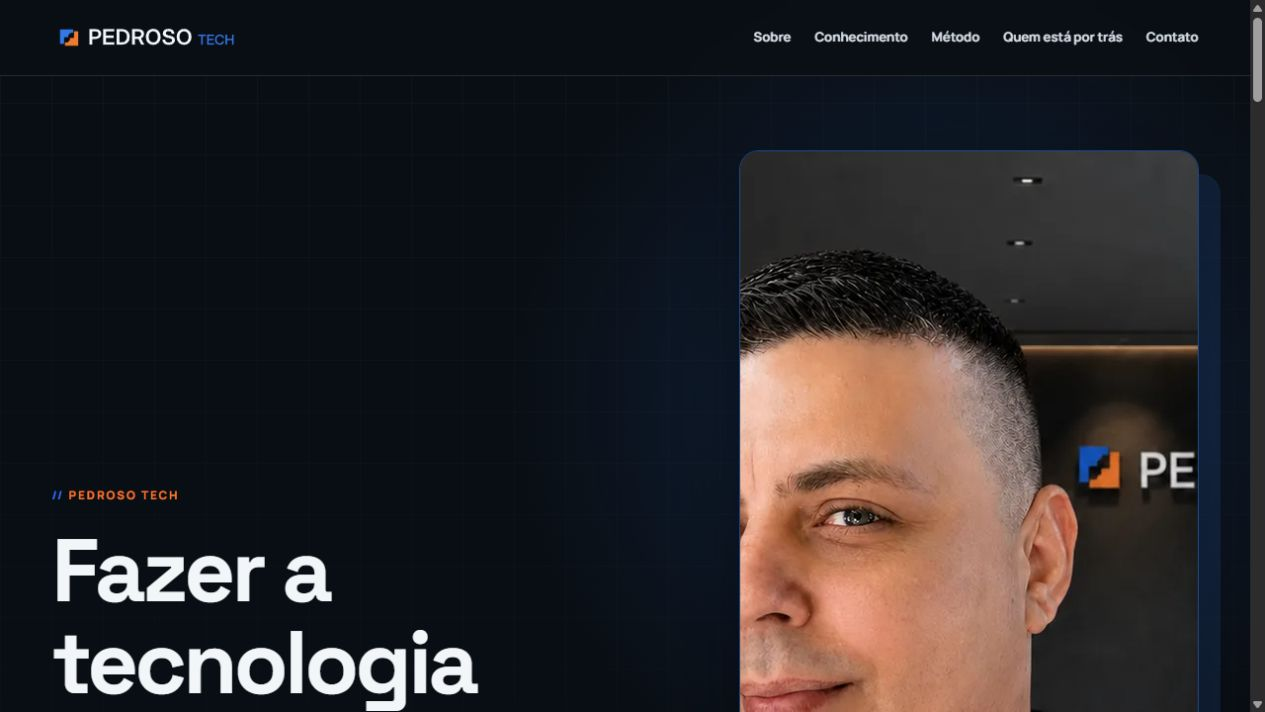
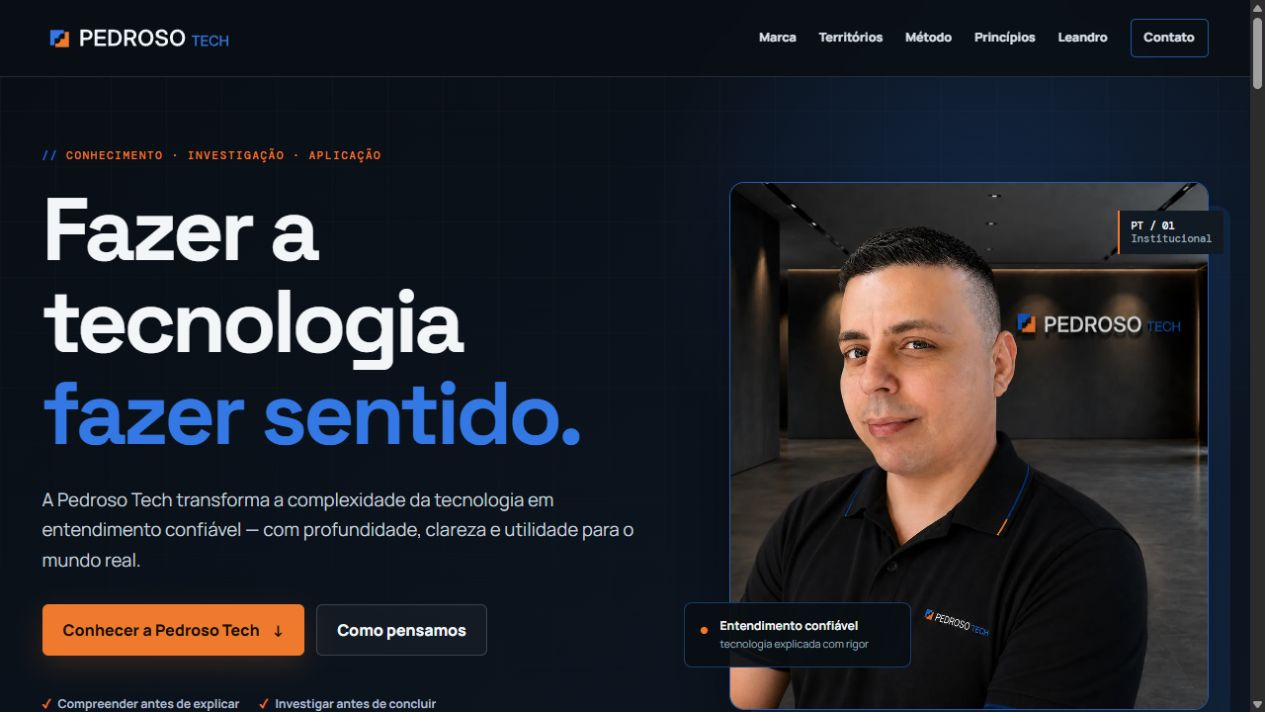
Enrich Pedroso Tech institutional experience

diff --git a/index.html b/index.html
@@ -1,19 +1,21 @@
 <!doctype html>
 <html lang="pt-BR"><head>
-  <meta charset="utf-8"><meta name="viewport" content="width=device-width, initial-scale=1">
-  <title>Pedroso Tech | Tecnologia que faz sentido</title>
-  <meta name="description" content="Pedroso Tech transforma a complexidade da tecnologia em entendimento confiável, com investigação, conhecimento aplicado e recursos úteis."><meta name="author" content="Pedroso Tech"><meta name="theme-color" content="#090E14"><meta name="color-scheme" content="dark"><link rel="canonical" href="https://pedrosotech.com.br/">
-  <meta property="og:type" content="website"><meta property="og:locale" content="pt_BR"><meta property="og:site_name" content="Pedroso Tech"><meta property="og:title" content="Pedroso Tech | Tecnologia que faz sentido"><meta property="og:description" content="Entendimento tecnológico confiável, claro e útil."><meta property="og:url" content="https://pedrosotech.com.br/"><meta property="og:image" content="https://pedrosotech.com.br/assets/leandro-pedroso-lobby.jpg"><meta name="twitter:card" content="summary_large_image"><meta name="twitter:title" content="Pedroso Tech | Tecnologia que faz sentido"><meta name="twitter:description" content="Entendimento tecnológico confiável, claro e útil."><meta name="twitter:image" content="https://pedrosotech.com.br/assets/leandro-pedroso-lobby.jpg">
-  <link rel="icon" href="assets/pedroso-tech-signature.svg" type="image/svg+xml"><link rel="manifest" href="site.webmanifest"><link rel="stylesheet" href="styles.css"><link rel="stylesheet" href="responsive-fixes.css">
-  <script type="application/ld+json">{"@context":"https://schema.org","@type":"Organization","name":"Pedroso Tech","url":"https://pedrosotech.com.br/","description":"Marca independente de tecnologia dedicada a transformar assuntos complexos em entendimento confiável.","sameAs":["https://github.com/leopedroso84","https://instagram.com/leopedrosotech","https://facebook.com/profile.php?id=61593232645749"]}</script>
+<meta charset="utf-8"><meta name="viewport" content="width=device-width, initial-scale=1">
+<title>Pedroso Tech | Tecnologia que faz sentido</title>
+<meta name="description" content="A Pedroso Tech transforma a complexidade da tecnologia em entendimento confiável, com investigação, conhecimento aplicado e recursos úteis."><meta name="author" content="Pedroso Tech"><meta name="theme-color" content="#090E14"><meta name="color-scheme" content="dark"><link rel="canonical" href="https://pedrosotech.com.br/">
+<meta property="og:type" content="website"><meta property="og:locale" content="pt_BR"><meta property="og:site_name" content="Pedroso Tech"><meta property="og:title" content="Pedroso Tech | Tecnologia que faz sentido"><meta property="og:description" content="Entendimento tecnológico confiável, claro e útil."><meta property="og:url" content="https://pedrosotech.com.br/"><meta property="og:image" content="https://pedrosotech.com.br/assets/leandro-pedroso-lobby.jpg"><meta name="twitter:card" content="summary_large_image"><meta name="twitter:title" content="Pedroso Tech | Tecnologia que faz sentido"><meta name="twitter:description" content="Entendimento tecnológico confiável, claro e útil."><meta name="twitter:image" content="https://pedrosotech.com.br/assets/leandro-pedroso-lobby.jpg">
+<link rel="icon" href="assets/pedroso-tech-signature.svg" type="image/svg+xml"><link rel="manifest" href="site.webmanifest"><link rel="stylesheet" href="styles.css?v=20260817c"><link rel="stylesheet" href="fixes.css?v=20260817c">
+<script type="application/ld+json">{"@context":"https://schema.org","@type":"Organization","name":"Pedroso Tech","url":"https://pedrosotech.com.br/","description":"Marca independente de tecnologia dedicada a transformar assuntos complexos em entendimento confiável.","sameAs":["https://github.com/leopedroso84","https://instagram.com/leopedrosotech","https://facebook.com/profile.php?id=61593232645749"]}</script>
 </head><body>
-  <a class="skip-link" href="#conteudo">Pular para o conteúdo</a><header class="header" id="topo"><div class="container header-inner"><a class="brand" href="#inicio" aria-label="Pedroso Tech, página inicial"><img src="assets/pedroso-tech-signature.svg" width="260" height="48" alt="Pedroso Tech"></a><button class="menu-toggle" type="button" aria-expanded="false" aria-controls="menu"><span></span><span></span><span></span><span class="sr-only">Abrir menu</span></button><nav class="nav" id="menu" aria-label="Navegação principal"><a href="#sobre">Sobre</a><a href="#conhecimento">Conhecimento</a><a href="#metodo">Método</a><a href="#leandro">Quem está por trás</a><a href="#contato">Contato</a></nav></div></header>
-  <main id="conteudo"><section class="hero" id="inicio"><div class="grid-glow" aria-hidden="true"></div><div class="container hero-grid"><div class="hero-copy reveal"><p class="eyebrow">PEDROSO TECH</p><h1>Fazer a tecnologia <em>fazer sentido.</em></h1><p class="lead">Transformamos a complexidade da tecnologia em entendimento confiável — com investigação, conhecimento aplicado e recursos úteis.</p><div class="hero-actions"><a class="button button-primary" href="#conhecimento">Conhecer a Pedroso Tech</a><a class="button button-secondary" href="#contato">Entrar em contato</a></div></div><figure class="hero-photo reveal"><picture><source srcset="assets/leandro-pedroso-lobby.webp" type="image/webp"><img src="assets/leandro-pedroso-lobby.jpg" width="1200" height="1200" alt="Leandro Pedroso no lobby institucional da Pedroso Tech" fetchpriority="high"></picture><figcaption>Por Leandro Pedroso</figcaption></figure></div></section>
-    <section class="section" id="sobre"><div class="container split"><div><p class="eyebrow">SOBRE A MARCA</p><h2>Clareza sem perder a precisão.</h2></div><div class="body-copy"><p>A Pedroso Tech é uma marca independente de tecnologia dedicada a ajudar pessoas e organizações a compreender, avaliar e utilizar melhor a tecnologia.</p><p>Conhecimento, investigação e aplicação prática caminham juntos para tornar decisões mais conscientes e experiências mais úteis.</p></div></div></section>
-    <section class="section section-surface" id="conhecimento"><div class="container"><p class="eyebrow">TERRITÓRIOS DE ATUAÇÃO</p><h2>Conhecimento aplicado ao mundo real.</h2><div class="cards"><article><b>01</b><h3>Tecnologia aplicada</h3><p>Funcionamento, relações, impactos e aplicações da tecnologia.</p></article><article><b>02</b><h3>Redes e conectividade</h3><p>Infraestrutura, comunicação, internet e telecomunicações.</p></article><article><b>03</b><h3>Sistemas e automação</h3><p>Software, integrações, processos digitais e soluções automatizadas.</p></article><article><b>04</b><h3>IA aplicada</h3><p>Uso, funcionamento, limitações e experimentação responsável.</p></article><article><b>05</b><h3>Diagnóstico técnico</h3><p>Investigação de causas, boas práticas e resolução de problemas.</p></article><article><b>06</b><h3>Projetos e documentação</h3><p>Recursos próprios que materializam conhecimento com utilidade.</p></article></div></div></section>
-    <section class="section method" id="metodo"><div class="container"><p class="eyebrow">MÉTODO PEDROSO TECH</p><h2>Entender antes de decidir.</h2><p class="method-intro">Um processo para transformar curiosidade em entendimento confiável.</p><ol><li>Compreender</li><li>Investigar</li><li>Conectar</li><li>Experimentar</li><li>Validar</li><li>Transformar</li></ol></div></section>
-    <section class="section" id="leandro"><div class="container person"><div class="person-image"><picture><source srcset="assets/leandro-pedroso-lobby.webp" type="image/webp"><img src="assets/leandro-pedroso-lobby.jpg" width="1200" height="1200" alt="Retrato institucional de Leandro Pedroso"></picture></div><div><p class="eyebrow">QUEM ESTÁ POR TRÁS</p><h2>Leandro Pedroso</h2><p class="body-copy">Leandro é a pessoa por trás da Pedroso Tech. Sua atuação conecta tecnologia, investigação e comunicação clara para transformar desafios reais em entendimento útil.</p><a class="text-link" href="https://github.com/leopedroso84" target="_blank" rel="noopener noreferrer">Conheça os projetos no GitHub <span aria-hidden="true">↗</span></a></div></div></section>
-    <section class="section section-surface presence"><div class="container"><p class="eyebrow">PRESENÇA DIGITAL</p><h2>Continue acompanhando.</h2><div class="channels"><a href="https://github.com/leopedroso84" target="_blank" rel="noopener noreferrer"><span>GitHub</span><strong>Projetos e recursos técnicos</strong></a><a href="https://instagram.com/leopedrosotech" target="_blank" rel="noopener noreferrer"><span>Instagram</span><strong>@leopedrosotech</strong></a><a href="https://facebook.com/profile.php?id=61593232645749" target="_blank" rel="noopener noreferrer"><span>Facebook</span><strong>Pedroso Tech</strong></a></div></div></section>
-    <section class="section contact" id="contato"><div class="container"><p class="eyebrow">CONTATO</p><h2>Uma conversa pode começar por aqui.</h2><p>Para assuntos institucionais, projetos e parcerias, escolha um dos canais oficiais.</p><div class="contact-actions"><a class="button button-primary contact-button" href="mailto:contato@pedrosotech.com.br" aria-label="Enviar e-mail para a Pedroso Tech"><svg viewBox="0 0 24 24" aria-hidden="true" focusable="false"><path d="M3.75 5.75h16.5v12.5H3.75z"></path><path d="m4.5 7 7.5 6 7.5-6"></path></svg><span class="contact-label">E-mail</span></a><a class="button button-secondary contact-button" href="https://wa.me/551736349105" target="_blank" rel="noopener noreferrer" aria-label="Falar com a Pedroso Tech pelo WhatsApp"><svg viewBox="0 0 24 24" aria-hidden="true" focusable="false"><path d="M20 11.5a8 8 0 0 1-11.8 7L4 19.5l1.1-4A8 8 0 1 1 20 11.5Z"></path><path d="M9.2 8.3c.2-.4.4-.4.7-.4h.5c.2 0 .4.1.5.4l.8 1.8c.1.3.1.5-.1.7l-.6.7c-.2.2-.2.4-.1.6.6 1.2 1.6 2.1 2.8 2.7.2.1.4.1.6-.1l.8-1c.2-.2.4-.3.7-.2l1.8.8c.3.1.4.3.4.5 0 .5-.2 1.4-.8 1.9-.6.5-1.4.8-2.3.6-1.3-.3-2.7-.8-4.3-2.2-1.4-1.2-2.4-2.8-2.8-4-.4-1.1-.1-2 .4-2.8Z"></path></svg><span class="contact-label">WhatsApp</span></a></div></div></section></main>
-  <footer class="footer"><div class="container footer-inner"><img src="assets/pedroso-tech-signature.svg" width="208" height="38" alt="Pedroso Tech"><p>Entendimento tecnológico confiável, claro e útil.</p><div><a href="privacidade.html">Política de Privacidade</a><a href="#topo">Voltar ao topo</a></div><small>© <span id="year"></span> Pedroso Tech.</small></div></footer><script src="script.js"></script>
-</body></html>
+<a class="skip-link" href="#conteudo">Pular para o conteúdo</a><header class="header" id="topo"><div class="container header-inner"><a class="brand" href="#inicio" aria-label="Pedroso Tech, página inicial"><img src="assets/pedroso-tech-signature.svg" width="260" height="48" alt="Pedroso Tech"></a><button class="menu-toggle" type="button" aria-expanded="false" aria-controls="menu"><span></span><span></span><span></span><span class="sr-only">Abrir menu</span></button><nav class="nav" id="menu" aria-label="Navegação principal"><a href="#marca">Marca</a><a href="#territorios">Territórios</a><a href="#metodo">Método</a><a href="#principios">Princípios</a><a href="#leandro">Leandro</a><a class="nav-cta" href="#contato">Contato</a></nav></div></header>
+<main id="conteudo">
+<section class="hero" id="inicio"><div class="gridline" aria-hidden="true"></div><div class="container hero-layout"><div class="hero-copy reveal"><p class="eyebrow">CONHECIMENTO · INVESTIGAÇÃO · APLICAÇÃO</p><h1>Fazer a tecnologia <span>fazer sentido.</span></h1><p class="lead">A Pedroso Tech transforma a complexidade da tecnologia em entendimento confiável — com profundidade, clareza e utilidade para o mundo real.</p><div class="actions"><a class="button primary" href="#marca">Conhecer a Pedroso Tech <span>↓</span></a><a class="button ghost" href="#metodo">Como pensamos</a></div><ul class="notes"><li>Compreender antes de explicar</li><li>Investigar antes de concluir</li><li>Validar antes de compartilhar</li></ul></div><div class="hero-visual reveal"><div class="photo-frame"><picture><source srcset="assets/leandro-pedroso-lobby.webp" type="image/webp"><img src="assets/leandro-pedroso-lobby.jpg" width="1200" height="1200" alt="Leandro Pedroso no lobby institucional da Pedroso Tech" fetchpriority="high"></picture></div><span class="corner">PT / 01<br><i>Institucional</i></span><div class="signal"><b>●</b><strong>Entendimento confiável</strong><small>tecnologia explicada com rigor</small></div></div></div></section>
+<section class="section" id="marca"><div class="container"><div class="intro split"><div><p class="eyebrow">A ESSÊNCIA</p><h2>Tecnologia clara. Pensamento profundo.</h2></div><div><p>A Pedroso Tech é uma marca independente dedicada a desenvolver, organizar e compartilhar conhecimento e recursos que ajudem pessoas e organizações a compreender melhor a tecnologia, tomar decisões conscientes e aplicá-la de forma útil.</p><a class="text-link" href="#territorios">Explorar os territórios de atuação →</a></div></div><div class="cards purpose"><article><b>01</b><h3>Essência</h3><p>Fazer a tecnologia fazer sentido.</p></article><article><b>02</b><h3>Propósito</h3><p>Transformar a complexidade da tecnologia em entendimento confiável.</p></article><article><b>03</b><h3>Promessa</h3><p>Entendimento tecnológico claro, útil e responsável.</p></article></div></div></section>
+<section class="section surface" id="territorios"><div class="container"><div class="intro"><p class="eyebrow">TERRITÓRIOS DE ATUAÇÃO</p><h2>Conhecimento aplicado ao mundo real.</h2><p>Campos amplos de investigação e aplicação — não uma lista genérica de serviços.</p></div><div class="territories"><article><b>01</b><h3>Tecnologia aplicada</h3><p>Funcionamento, relações, impactos e aplicações do cotidiano tecnológico.</p></article><article><b>02</b><h3>Infraestrutura e conectividade</h3><p>Internet, redes, comunicação, equipamentos e serviços relacionados.</p></article><article><b>03</b><h3>Suporte e diagnóstico</h3><p>Investigação de causas, resolução técnica, boas práticas e experiências reais.</p></article><article><b>04</b><h3>Sistemas e automação</h3><p>Software, integrações, ferramentas, processos digitais e soluções automatizadas.</p></article><article><b>05</b><h3>Inteligência artificial aplicada</h3><p>Uso, funcionamento, limitações, ferramentas e experimentação responsável.</p></article><article><b>06</b><h3>Projetos e documentação</h3><p>Recursos próprios que materializam conhecimento técnico com utilidade.</p></article></div></div></section>
+<section class="section editorial"><div class="container editorial-layout"><div><p class="eyebrow">PILARES EDITORIAIS</p><h2>Uma forma mais responsável de produzir tecnologia.</h2><p>O formato acompanha o assunto: conteúdo, pesquisa, documentação, ferramenta ou projeto — sempre com contribuição real.</p></div><ol class="pillars"><li><strong>Entender</strong><span>Explicar como tecnologias, sistemas e processos funcionam.</span></li><li><strong>Investigar</strong><span>Analisar causas, comportamentos, limitações e fenômenos.</span></li><li><strong>Aplicar</strong><span>Mostrar usos, decisões, configurações e boas práticas.</span></li><li><strong>Experimentar</strong><span>Construir testes, automações, ferramentas e aprendizados práticos.</span></li><li><strong>Evoluir</strong><span>Acompanhar mudanças relevantes com contexto e análise.</span></li></ol></div></section>
+<section class="section method" id="metodo"><div class="container"><div class="intro"><p class="eyebrow">MÉTODO PEDROSO TECH</p><h2>Da curiosidade ao entendimento confiável.</h2><p>Um método explícito para evitar conclusões superficiais e tornar conhecimento técnico mais útil.</p></div><ol class="method-path"><li><b>01</b><strong>Compreender</strong></li><li><b>02</b><strong>Investigar</strong></li><li><b>03</b><strong>Conectar</strong></li><li><b>04</b><strong>Experimentar</strong></li><li><b>05</b><strong>Validar</strong></li><li><b>06</b><strong>Transformar</strong></li></ol></div></section>
+<section class="section" id="principios"><div class="container"><div class="intro"><p class="eyebrow">PRINCÍPIOS INEGOCIÁVEIS</p><h2>Confiança é construída antes de ser comunicada.</h2></div><div class="cards principles"><article><b>↗</b><h3>Profundidade antes de velocidade</h3><p>Chegar depois é aceitável quando significa compreender melhor.</p></article><article><b>◌</b><h3>Rigor técnico</h3><p>Verificar informações, separar evidência de suposição e reconhecer limites.</p></article><article><b>≡</b><h3>Clareza</h3><p>Tornar compreensível sem empobrecer ou distorcer.</p></article><article><b>⌁</b><h3>Independência</h3><p>Preservar a confiança acima de tendências e interesses financeiros.</p></article></div></div></section>
+<section class="section surface" id="leandro"><div class="container person"><div class="person-image"><picture><source srcset="assets/leandro-pedroso-lobby.webp" type="image/webp"><img src="assets/leandro-pedroso-lobby.jpg" width="1200" height="1200" alt="Retrato institucional de Leandro Pedroso"></picture><span>Leandro Pedroso<br><i>Por trás da Pedroso Tech</i></span></div><div><p class="eyebrow">QUEM ESTÁ POR TRÁS</p><h2>Uma marca com proximidade, sem depender de exposição pessoal.</h2><p>Leandro Pedroso conecta investigação, prática e comunicação clara para transformar desafios tecnológicos em entendimento útil. O foco permanece no conhecimento que a Pedroso Tech constrói e compartilha.</p><a class="button outline" href="https://github.com/leopedroso84" target="_blank" rel="noopener noreferrer">Conhecer projetos no GitHub ↗</a></div></div></section>
+<section class="section editorial"><div class="container"><div class="intro split"><div><p class="eyebrow">ECOSSISTEMA</p><h2>Onde o conhecimento continua.</h2></div><p>Redes são canais de descoberta e relacionamento. Projetos, documentação e recursos próprios formam uma presença digital mais duradoura.</p></div><div class="channels"><a href="https://github.com/leopedroso84" target="_blank" rel="noopener noreferrer"><span>01 / GitHub</span><strong>Projetos e recursos técnicos</strong><i>↗</i></a><a href="https://instagram.com/leopedrosotech" target="_blank" rel="noopener noreferrer"><span>02 / Instagram</span><strong>@leopedrosotech</strong><i>↗</i></a><a href="https://facebook.com/profile.php?id=61593232645749" target="_blank" rel="noopener noreferrer"><span>03 / Facebook</span><strong>Pedroso Tech</strong><i>↗</i></a></div></div></section>
+<section class="section contact" id="contato"><div class="gridline" aria-hidden="true"></div><div class="container contact-copy"><p class="eyebrow">CONTATO</p><h2>Uma conversa pode<br>começar por aqui.</h2><p>Para assuntos institucionais, projetos e parcerias, escolha um dos canais oficiais.</p><div class="actions"><a class="button primary" href="mailto:contato@pedrosotech.com.br" aria-label="Enviar e-mail para a Pedroso Tech">E-mail <span>↗</span></a><a class="button ghost" href="https://wa.me/551736349105" target="_blank" rel="noopener noreferrer" aria-label="Falar com a Pedroso Tech pelo WhatsApp">WhatsApp <span>↗</span></a></div></div></section>
+</main><footer class="footer"><div class="container footer-grid"><img src="assets/pedroso-tech-signature.svg" width="208" height="38" alt="Pedroso Tech"><p>Entendimento tecnológico confiável, claro e útil.</p><div><a href="privacidade.html">Política de Privacidade</a><a href="#topo">Voltar ao topo</a></div><small>© <span id="year"></span> Pedroso Tech. Todos os direitos reservados.</small></div></footer><script src="script.js?v=20260817c"></script></body></html>

diff --git a/styles.css b/styles.css
@@ -1,8 +1,2 @@
-@import url('https://fonts.googleapis.com/css2?family=Manrope:wght@400;500;600;700;800&family=Space+Grotesk:wght@500;600;700&display=swap');
-
-/* Hero portrait: retain the approved source image while tailoring its framing per viewport. */
-.hero-photo{width:min(100%,430px)!important;justify-self:end;padding:18px;background:linear-gradient(145deg,rgba(52,120,229,.18),rgba(17,25,35,.72));aspect-ratio:1/1.05}
-.hero-photo img{width:100%;height:100%;aspect-ratio:auto!important;object-fit:contain!important;object-position:50% 50%!important;border-radius:11px;background:#0d141e}
-@media(max-width:850px){.hero-photo{justify-self:center;width:min(100%,420px)!important}}
-@media(max-width:640px){.hero-photo{width:100%!important;padding:0;aspect-ratio:4/3;background:#0d141e}.hero-photo img{aspect-ratio:4/3!important;object-fit:cover!important;object-position:50% 30%!important;border-radius:0}}
-:root{--graphite:#090E14;--surface:#111923;--white:#F3F6F9;--gray:#9AA7B4;--blue:#3478E5;--orange:#EF7A2D;--line:rgba(243,246,249,.13);--container:1160px}*{box-sizing:border-box}html{scroll-behavior:smooth}body{margin:0;background:var(--graphite);color:var(--white);font:400 16px/1.65 Manrope,system-ui,sans-serif}img{max-width:100%;display:block}a{color:inherit}.container{width:min(var(--container),calc(100% - 48px));margin:auto}.sr-only{position:absolute;width:1px;height:1px;overflow:hidden;clip:rect(0 0 0 0)}.skip-link{position:fixed;left:18px;top:-60px;z-index:1000;padding:10px 16px;background:var(--white);color:var(--graphite);border-radius:7px;font-weight:700}.skip-link:focus{top:18px}a:focus-visible,button:focus-visible{outline:3px solid var(--orange);outline-offset:3px}.header{position:fixed;inset:0 0 auto;z-index:20;background:rgba(9,14,20,.84);backdrop-filter:blur(16px);border-bottom:1px solid var(--line)}.header-inner{height:76px;display:flex;align-items:center;justify-content:space-between;gap:28px}.brand img{width:200px;height:auto}.nav{display:flex;align-items:center;gap:24px}.nav a{color:#d7e0ea;text-decoration:none;font-weight:700;font-size:.82rem}.nav a:hover{color:var(--orange)}.menu-toggle{display:none;background:none;border:1px solid var(--line);border-radius:8px;padding:9px;width:42px;height:42px}.menu-toggle span:not(.sr-only){display:block;height:2px;background:var(--white);margin:4px;border-radius:2px}.hero{position:relative;overflow:hidden;padding:152px 0 88px;min-height:760px;background:radial-gradient(circle at 75% 28%,rgba(52,120,229,.2),transparent 31%),radial-gradient(circle at 90% 75%,rgba(239,122,45,.15),transparent 22%),var(--graphite)}.grid-glow{position:absolute;inset:0;opacity:.35;background-image:linear-gradient(rgba(154,167,180,.1) 1px,transparent 1px),linear-gradient(90deg,rgba(154,167,180,.1) 1px,transparent 1px);background-size:52px 52px;mask-image:linear-gradient(to bottom,#000,transparent 88%)}.hero-grid{position:relative;display:grid;grid-template-columns:1.15fr .85fr;align-items:center;gap:66px}.eyebrow{margin:0;color:var(--orange);font-size:.73rem;font-weight:800;letter-spacing:.16em}.eyebrow::before{content:'// ';color:var(--blue)}h1,h2,h3{font-family:"Space Grotesk",Manrope,sans-serif;line-height:1.04;letter-spacing:-.04em}h1{font-size:clamp(3.3rem,7vw,6.4rem);margin:20px 0 24px;max-width:770px}h1 em{display:block;color:var(--blue);font-style:normal}.lead{max-width:650px;color:#c4cfdb;font-size:clamp(1.06rem,1.6vw,1.24rem)}.hero-actions{display:flex;flex-wrap:wrap;gap:13px;margin-top:31px}.button{display:inline-flex;align-items:center;justify-content:center;min-height:51px;padding:0 20px;border:1px solid transparent;border-radius:7px;font-weight:800;text-decoration:none;transition:transform .2s,background .2s}.button:hover{transform:translateY(-2px)}.button-primary{color:#130d09;background:var(--orange)}.button-secondary{color:var(--white);background:rgba(17,25,35,.62);border-color:var(--line)}.hero-photo{position:relative;margin:0;border:1px solid rgba(52,120,229,.52);border-radius:20px;overflow:hidden;box-shadow:22px 24px 0 rgba(52,120,229,.13),0 28px 75px rgba(0,0,0,.44)}.hero-photo img{width:100%;aspect-ratio:1;object-fit:cover}.hero-photo figcaption{position:absolute;right:0;bottom:0;padding:8px 14px;background:var(--surface);font-size:.72rem;font-weight:700}.section{padding:108px 0}.section-surface{background:var(--surface)}h2{max-width:720px;margin:14px 0 25px;font-size:clamp(2.25rem,4.4vw,4.4rem)}.split,.person{display:grid;grid-template-columns:.9fr 1.1fr;gap:90px;align-items:start}.body-copy{max-width:650px;color:#ccd5df;font-size:1.12rem}.body-copy p:first-child{margin-top:0}.cards{display:grid;grid-template-columns:repeat(3,1fr);gap:15px;margin-top:46px}.cards article{min-height:218px;padding:25px;border:1px solid var(--line);border-radius:12px;background:#0d141e}.cards b{color:var(--orange);font-size:.78rem;letter-spacing:.13em}.cards h3{margin:28px 0 9px;font-size:1.32rem}.cards p{margin:0;color:var(--gray);font-size:.9rem}.method{background:linear-gradient(125deg,#0a111c,#13243d)}.method-intro{color:#c7d3df}.method ol{display:grid;grid-template-columns:repeat(6,1fr);padding:0;margin:45px 0 0;list-style:none;counter-reset:method}.method li{position:relative;padding-top:44px;color:#dce5ee;font-weight:700;font-size:.9rem}.method li::before{counter-increment:method;content:'0' counter(method);position:absolute;top:0;color:var(--orange);font:700 1.6rem "Space Grotesk"}.method li:not(:last-child)::after{content:'→';position:absolute;right:6px;top:8px;color:var(--blue);font-size:1.3rem}.person{align-items:center}.person-image{max-width:410px;border-radius:16px;overflow:hidden;border:1px solid var(--line)}.person-image img{aspect-ratio:1;object-fit:cover}.text-link{color:var(--orange);font-weight:800;text-decoration:none}.channels{display:grid;grid-template-columns:repeat(3,1fr);gap:15px;margin-top:40px}.channels a{padding:25px;border:1px solid var(--line);border-radius:10px;text-decoration:none;background:#0d141e}.channels a:hover{border-color:var(--blue)}.channels span,.channels strong{display:block}.channels span{color:var(--orange);font-size:.75rem;font-weight:800;text-transform:uppercase;letter-spacing:.08em}.channels strong{margin-top:7px}.contact{background:radial-gradient(circle at 15% 90%,rgba(239,122,45,.18),transparent 30%),var(--graphite)}.contact>div>p:not(.eyebrow){max-width:580px;color:#c5cfda}.footer{padding:44px 0;background:#060a0f;border-top:1px solid var(--line)}.footer-inner{display:grid;grid-template-columns:1fr 1fr auto;gap:20px;align-items:center}.footer img{width:180px}.footer p,.footer small{margin:0;color:var(--gray);font-size:.84rem}.footer a{margin-left:16px;color:#dce5ee;font-size:.83rem;text-decoration:none}.footer small{grid-column:1/-1;padding-top:18px;border-top:1px solid var(--line)}.privacy-page{min-height:100vh;background:var(--graphite)}.privacy-header{padding:30px 0;background:var(--surface)}.privacy-header a{font-weight:800;text-decoration:none}.privacy-content{max-width:820px;margin:45px auto;padding:40px;border:1px solid var(--line);border-radius:14px;background:#0d141e}.privacy-content h1{font-size:clamp(2.4rem,5vw,4rem)}.privacy-content h2{font-size:1.6rem;margin-top:42px}.privacy-content p,.privacy-content li{color:#c6d0da}.privacy-content a{color:var(--orange)}.reveal{opacity:0;transform:translateY(16px);transition:opacity .55s ease,transform .55s ease}.reveal.visible{opacity:1;transform:none}@media(max-width:850px){.hero-grid,.split,.person{grid-template-columns:1fr;gap:45px}.hero{min-height:0}.hero-photo{max-width:500px}.cards{grid-template-columns:repeat(2,1fr)}.method ol{grid-template-columns:repeat(3,1fr);gap:26px}.method li:not(:last-child)::after{display:none}.channels{grid-template-columns:1fr}.footer-inner{grid-template-columns:1fr}.footer a{margin:0 16px 0 0}}@media(max-width:640px){.container{width:min(100% - 30px,var(--container))}.header-inner{height:68px}.brand img{width:165px}.menu-toggle{display:block}.nav{display:none;position:absolute;top:76px;left:15px;right:15px;flex-direction:column;align-items:stretch;gap:0;padding:8px;background:#111923;border:1px solid var(--line);border-radius:10px}.nav.open{display:flex}.nav a{padding:11px}.hero{padding-top:118px}.cards{grid-template-columns:1fr}.section{padding:75px 0}.method ol{grid-template-columns:repeat(2,1fr)}.privacy-content{margin:25px auto;padding:25px}}@media(prefers-reduced-motion:reduce){html{scroll-behavior:auto}*,*:before,*:after{animation-duration:.01ms!important;transition-duration:.01ms!important}.reveal{opacity:1;transform:none}}
+@import url('https://fonts.googleapis.com/css2?family=DM+Mono:wght@400;500&family=Manrope:wght@400;500;600;700;800&family=Space+Grotesk:wght@500;600;700&display=swap');
+:root{--g:#090E14;--s:#111923;--w:#F3F6F9;--gray:#9AA7B4;--blue:#3478E5;--orange:#EF7A2D;--line:rgba(243,246,249,.13);--c:1180px}*{box-sizing:border-box}html{scroll-behavior:smooth}body{margin:0;color:var(--w);background:var(--g);font:400 16px/1.65 Manrope,system-ui,sans-serif}img{display:block;max-width:100%}a{color:inherit}.container{width:min(var(--c),calc(100% - 48px));margin:auto}.sr-only{position:absolute;width:1px;height:1px;overflow:hidden;clip:rect(0 0 0 0)}.skip-link{position:fixed;z-index:100;top:-60px;left:16px;padding:9px 15px;background:var(--w);color:var(--g);border-radius:6px;font-weight:800}.skip-link:focus{top:16px}a:focus-visible,button:focus-visible{outline:3px solid var(--orange);outline-offset:4px}.header{position:fixed;z-index:20;inset:0 0 auto;height:78px;border-bottom:1px solid var(--line);background:rgba(9,14,20,.86);backdrop-filter:blur(16px)}.header-inner{height:100%;display:flex;align-items:center;justify-content:space-between}.brand img{width:205px}.nav{display:flex;gap:23px;align-items:center}.nav a{font-size:.78rem;font-weight:800;text-decoration:none;color:#d8e1eb}.nav a:hover{color:var(--orange)}.nav-cta{padding:8px 13px;border:1px solid rgba(52,120,229,.65);border-radius:5px}.menu-toggle{display:none;width:42px;height:42px;padding:8px;border:1px solid var(--line);border-radius:7px;background:transparent}.menu-toggle span:not(.sr-only){display:block;height:2px;margin:5px 0;background:var(--w)}.hero,.contact{position:relative;overflow:hidden;background:radial-gradient(circle at 79% 28%,rgba(52,120,229,.2),transparent 29%),linear-gradient(140deg,#090e14,#0d1724)}.hero{min-height:780px;padding:150px 0 96px}.gridline{position:absolute;inset:0;opacity:.35;background-image:linear-gradient(rgba(154,167,180,.11) 1px,transparent 1px),linear-gradient(90deg,rgba(154,167,180,.11) 1px,transparent 1px);background-size:56px 56px;mask-image:linear-gradient(#000,transparent 90%)}.hero-layout{position:relative;display:grid;grid-template-columns:1.08fr .92fr;align-items:center;gap:70px}.eyebrow{margin:0;color:var(--orange);font:500 .71rem "DM Mono";letter-spacing:.12em}.eyebrow:before{content:'// ';color:var(--blue)}h1,h2,h3{font-family:"Space Grotesk",Manrope,sans-serif;letter-spacing:-.045em;line-height:1.04}h1{max-width:770px;margin:21px 0 24px;font-size:clamp(3.4rem,7vw,6.5rem)}h1 span{display:block;color:var(--blue)}h2{margin:16px 0 19px;font-size:clamp(2.4rem,5vw,4.7rem)}.lead{max-width:620px;color:#c6d0da;font-size:1.16rem}.actions{display:flex;flex-wrap:wrap;gap:12px;margin-top:30px}.button{display:inline-flex;align-items:center;justify-content:center;gap:13px;min-height:52px;padding:0 20px;border:1px solid transparent;border-radius:6px;font-weight:800;text-decoration:none;transition:transform .2s}.button:hover{transform:translateY(-2px)}.primary{background:var(--orange);color:#180f09;box-shadow:0 10px 28px rgba(239,122,45,.18)}.ghost{border-color:rgba(243,246,249,.18);background:rgba(243,246,249,.035)}.outline{margin-top:24px;border-color:var(--blue)}.notes{display:flex;flex-wrap:wrap;gap:10px 20px;margin:39px 0 0;padding:0;list-style:none;color:#aebdcb;font-size:.76rem;font-weight:700}.notes li:before{content:'✓';margin-right:7px;color:var(--orange)}.hero-visual{position:relative;max-width:485px;justify-self:end}.photo-frame{aspect-ratio:1/1.1;overflow:hidden;border:1px solid rgba(52,120,229,.7);border-radius:15px;background:var(--s);box-shadow:22px 24px 0 rgba(52,120,229,.12),0 32px 70px rgba(0,0,0,.39)}.photo-frame img{width:100%;height:100%;object-fit:cover}.corner{position:absolute;right:-15px;top:29px;padding:9px 11px;border-left:2px solid var(--orange);background:var(--s);font:500 .66rem "DM Mono"}.corner i{color:var(--gray);font-style:normal}.signal{position:absolute;left:-46px;bottom:43px;display:grid;grid-template-columns:13px 1fr;column-gap:8px;width:230px;padding:13px 15px;border:1px solid rgba(52,120,229,.4);border-radius:8px;background:rgba(9,14,20,.92)}.signal b{grid-row:span 2;color:var(--orange)}.signal strong{font-size:.76rem}.signal small{color:var(--gray);font-size:.67rem}.section{padding:118px 0}.surface{background:var(--s)}.intro{max-width:800px}.intro>p:not(.eyebrow),.split>p,.split>div:last-child p,.editorial p,.person p{color:var(--gray);font-size:1.03rem}.split{display:grid;grid-template-columns:.9fr 1.1fr;gap:90px;max-width:none}.split>div:last-child p{max-width:620px;margin-top:0;color:#d4dde6;font-size:1.1rem}.text-link{display:inline-block;margin-top:14px;color:var(--orange);font-weight:800;text-decoration:none}.cards{display:grid;gap:15px;margin-top:56px}.purpose{grid-template-columns:repeat(3,1fr)}.cards article{min-height:220px;padding:26px;border:1px solid var(--line);border-radius:9px;background:rgba(17,25,35,.52)}.cards article>b,.territories article>b{color:var(--blue);font:500 .72rem "DM Mono"}.cards h3{margin:40px 0 10px;font-size:1.25rem}.cards p,.territories p{margin:0;color:var(--gray);font-size:.9rem}.territories{display:grid;grid-template-columns:repeat(3,1fr);gap:1px;margin-top:48px;border:1px solid var(--line);background:var(--line)}.territories article{min-height:265px;padding:28px;background:var(--s)}.territories h3{margin:44px 0 10px;font-size:1.32rem}.editorial{background:#0c121a}.editorial-layout,.person{display:grid;grid-template-columns:.9fr 1.1fr;gap:100px;align-items:center}.pillars{margin:0;padding:0;list-style:none;counter-reset:p}.pillars li{position:relative;display:grid;grid-template-columns:170px 1fr;gap:18px;padding:19px 0 19px 48px;border-top:1px solid var(--line);counter-increment:p}.pillars li:last-child{border-bottom:1px solid var(--line)}.pillars li:before{content:'0' counter(p);position:absolute;left:0;color:var(--orange);font:.72rem "DM Mono"}.pillars strong{font-family:"Space Grotesk"}.pillars span{color:var(--gray);font-size:.89rem}.method{background:linear-gradient(130deg,#112946,#0c1827 62%,#101925)}.method-path{display:grid;grid-template-columns:repeat(6,1fr);gap:14px;margin:56px 0 0;padding:0;list-style:none}.method-path li{position:relative;min-height:118px;padding:16px;border-top:2px solid var(--blue);background:rgba(9,14,20,.25)}.method-path li:not(:last-child):after{content:'→';position:absolute;right:-12px;top:38px;z-index:1;color:var(--orange)}.method-path b{display:block;color:#94b8ef;font:500 .69rem "DM Mono"}.method-path strong{display:block;margin-top:26px;font-size:.9rem}.principles{grid-template-columns:repeat(4,1fr)}.principles article>b{font-size:2rem;color:var(--orange)}.principles h3{font-size:1.25rem}.person{grid-template-columns:.8fr 1.2fr;gap:115px}.person-image{position:relative;overflow:hidden;max-width:410px;border:1px solid rgba(52,120,229,.4);border-radius:10px}.person-image img{width:100%;height:100%;aspect-ratio:1;object-fit:cover}.person-image>span{position:absolute;right:0;bottom:0;left:0;padding:25px 16px 13px;background:linear-gradient(transparent,rgba(9,14,20,.96));font-size:.82rem;font-weight:800}.person-image i{color:#bec9d6;font-size:.7rem;font-style:normal;font-weight:500}.channels{display:grid;grid-template-columns:repeat(3,1fr);gap:15px;margin-top:55px}.channels a{position:relative;min-height:190px;padding:24px;border:1px solid var(--line);border-radius:8px;background:var(--s);text-decoration:none}.channels a:hover{border-color:var(--blue)}.channels span{display:block;color:var(--orange);font:500 .71rem "DM Mono"}.channels strong{display:block;max-width:200px;margin-top:43px;font:600 1.16rem/1.15 "Space Grotesk"}.channels i{position:absolute;right:22px;bottom:18px;color:var(--blue);font-style:normal}.contact{padding:132px 0}.contact-copy{position:relative;max-width:820px}.contact-copy>p:not(.eyebrow){max-width:520px;color:#c3ced9;font-size:1.06rem}.footer{padding:42px 0;border-top:1px solid var(--line);background:#060a0f}.footer-grid{display:grid;grid-template-columns:1fr 1fr auto;gap:22px;align-items:center}.footer img{width:182px}.footer p,.footer small{margin:0;color:var(--gray);font-size:.82rem}.footer a{margin-left:16px;color:#d5dfe9;text-decoration:none;font-size:.79rem;font-weight:700}.footer small{grid-column:1/-1;padding-top:20px;border-top:1px solid var(--line)}.reveal{opacity:0;transform:translateY(18px);transition:opacity .6s,transform .6s}.reveal.visible{opacity:1;transform:none}@media(max-width:970px){.hero-layout,.editorial-layout,.person{grid-template-columns:1fr;gap:50px}.hero{min-height:0}.hero-visual{justify-self:start;margin-left:44px}.method-path{grid-template-columns:repeat(3,1fr)}.method-path li:after{display:none!important}.principles{grid-template-columns:repeat(2,1fr)}}@media(max-width:720px){.container{width:min(100% - 30px,var(--c))}.header{height:68px}.brand img{width:170px}.menu-toggle{display:block}.nav{position:absolute;top:76px;left:15px;right:15px;display:none;flex-direction:column;gap:0;padding:8px;border:1px solid var(--line);border-radius:8px;background:var(--s)}.nav.open{display:flex}.nav a{padding:10px}.hero{padding:116px 0 74px}.hero-layout{gap:43px}.hero-visual{width:calc(100% - 24px);margin-left:12px}.signal{left:-12px;bottom:18px}.corner{right:-10px;top:16px}.notes{display:grid;gap:7px}.section{padding:78px 0}.split,.purpose,.territories,.channels{grid-template-columns:1fr}.territories{border:0;background:transparent;gap:12px}.territories article{min-height:0;border:1px solid var(--line);border-radius:8px}.territories h3{margin-top:24px}.pillars li{grid-template-columns:1fr;gap:4px}.method-path{grid-template-columns:repeat(2,1fr);margin-top:35px}.principles{grid-template-columns:1fr}.cards article{min-height:0}.person{gap:40px}.footer-grid{grid-template-columns:1fr}.footer a{margin:0 16px 0 0}.contact{padding:88px 0}}@media(prefers-reduced-motion:reduce){html{scroll-behavior:auto}*,*:before,*:after{animation-duration:.01ms!important;transition-duration:.01ms!important}.reveal{opacity:1;transform:none}}

diff --git a/fixes.css b/fixes.css
@@ -1,0 +1,3 @@
+.photo-frame { aspect-ratio: 1 / 1.1; }
+.photo-frame img { width: 100%; height: 100%; object-fit: cover; }
+.person-image img { width: 100%; height: 100%; object-fit: cover; }
